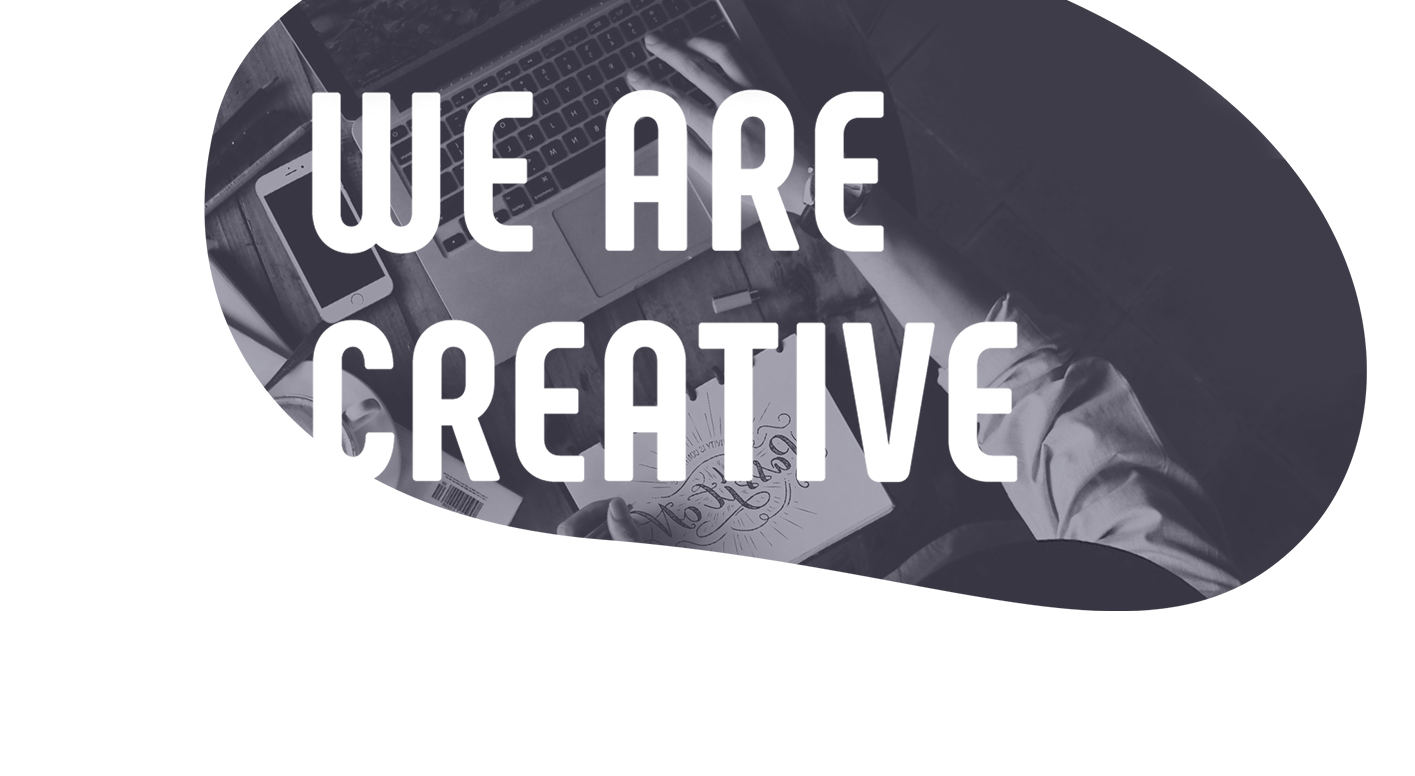
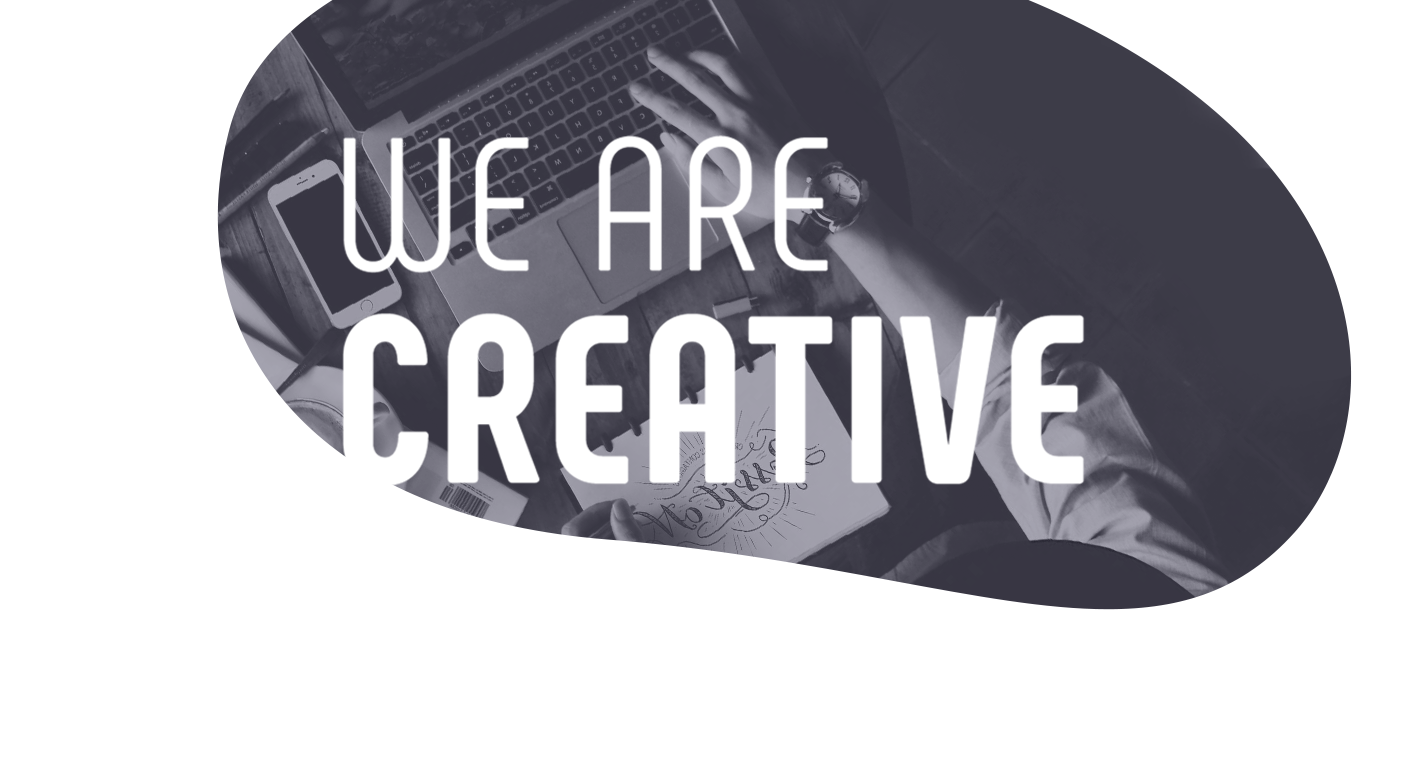
3d for mobile, morph, header pic

diff --git a/src/components/OurProjects.vue b/src/components/OurProjects.vue
@@ -9,13 +9,14 @@
 				</div>
 				<v-container>
 					<v-row class="card-wrapper my-10">
-						<!-- <div class="video-scroll">
-							<img src="../assets/mockUpWide.png" class="mock-up" />
-							<div class="img-box d-none d-lg-flex d-xl-none"></div>
-						</div> -->
 						<div class="frame">
 						<iframe src='https://my.spline.design/deviceslight-999e034c8fb1b5e133289ad3daee60dc/' 
-						frameborder='0' width='1800px' height='900px'></iframe>
+						frameborder='0' width='1300px' height='850px'>
+						</iframe>
+						<div class="imageMobile">
+							<img src="../assets/mockUpWide.png" class="mock-up" />
+							<div class="img-box d-none d-lg-flex d-xl-none"></div>
+						</div>
 						</div>
 					</v-row>
 				</v-container>
@@ -44,32 +45,6 @@ export default {
 	flex: 0 1 auto;
 	justify-content: space-around;
 }
-.video-scroll {
-	display: flex;
-	flex-direction: column;
-	position: relative;
-	box-shadow: 0 0 40px 0 #00000040;
-	margin: 0 auto;
-}
-.img-box {
-	z-index: 100;
-	width: 564px;
-	height: 338px;
-	background: black;
-	transition: ease-in-out 10s;
-	background: url(../assets/georginklvSite.png);
-	background-size: cover;
-	background-position: top;
-	position: absolute;
-	transform: translate(212%, 105px);
-	cursor: pointer;
-}
-.img-box:hover {
-	background-position: bottom;
-}
-.mock-up {
-	z-index: 0;
-}
 .v-btn {
 	background-color: #ff4f40;
 	padding: 10px 50px !important;
@@ -81,10 +56,23 @@ export default {
 		background-color: #301aff !important;
 	}
 }
-
-@media screen and (max-width: 601px) {
-	.mock-up {
-		max-width: 1060px;
+.imageMobile {
+	display: none;
+}
+@media screen and (max-width: 900px) {
+	#planet {
+		width: 70%;
+	}
+}
+@media screen and (max-width: 670px) {
+.frame iframe {
+	display: none;
+ }
+ .imageMobile {
+	display: contents;
+}
+ .mock-up {
+	max-width: 1060px;
 	}
 }
 </style>

diff --git a/src/components/TheHeader.vue b/src/components/TheHeader.vue
@@ -113,17 +113,17 @@ function parallax(e) {
   background: #9dfdc7; /* Old browsers */
   background: -moz-linear-gradient(
     -45deg,
-    #9dfdc7 9%,
-    #84f2cf 37%,
-    #69e7d9 65%,
-    #31cbeb 100%
+    #afffbc 9%,
+    #58fff0 37%,
+    #2afadf 65%,
+    #00a1ff 100%
   ); /* FF3.6-15 */
   background: -webkit-linear-gradient(
     -45deg,
-    #9dfdc7 9%,
-    #84f2cf 37%,
-    #69e7d9 65%,
-    #31cbeb 100%
+    #afffbc 9%,
+    #58fff0 37%,
+    #2afadf 65%,
+    #00a1ff 100%
   ); /* Chrome10-25,Safari5.1-6 */
   background: linear-gradient(
     135deg,
